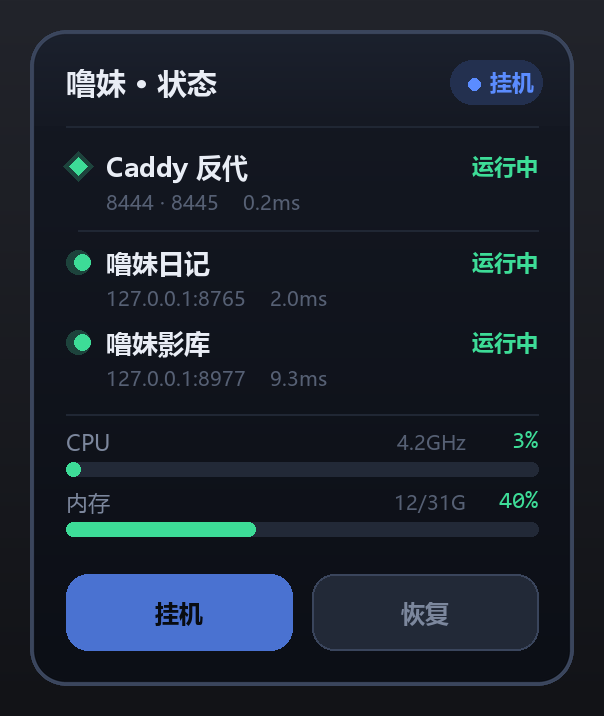
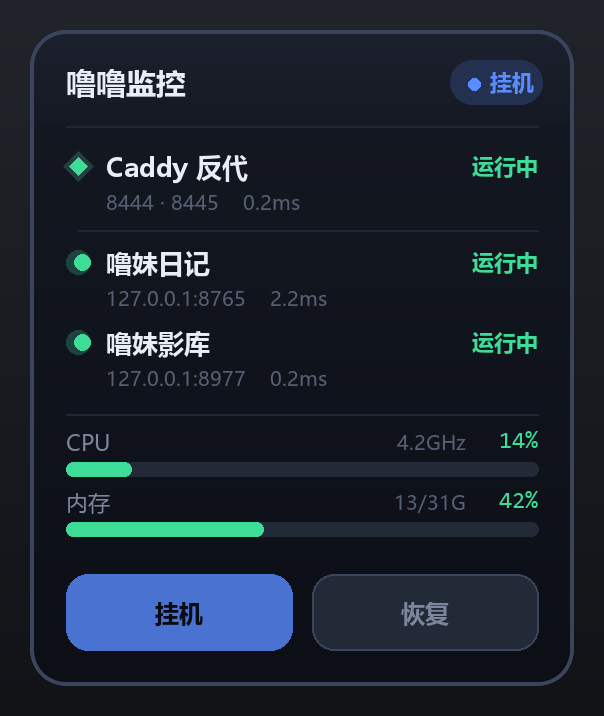
feat(widget): 标题改为「噜噜监控」
挂件标题、托盘提示文字、窗口标题（任务栏/Alt+Tab 显示用）统一走 TITLE 常量，
顺手给 tk 窗口设上 title —— overrideredirect 窗口默认标题是 'tk'。
README 标题同步。

diff --git a/lulu-watch/widget.py b/lulu-watch/widget.py
@@ -1,7 +1,7 @@
 # -*- coding: utf-8 -*-
 """
-噜妹状态挂件 —— 桌面小贴纸
-显示：电源模式 / 噜妹日记 / 噜妹影库 运行状态 / CPU / 内存
+噜噜监控 —— 桌面小贴纸
+显示：电源模式 / Caddy 入口 / 噜妹日记 / 噜妹影库 运行状态 / CPU / 内存
 可点按钮在「挂机」「恢复」之间切换
 
 用法：
@@ -59,6 +59,7 @@ SCALE = _system_scale()
 
 
 # ==================== 外观常量（逻辑坐标，渲染时乘 SCALE）====================
+TITLE = "噜噜监控"
 W, H = 272, 328
 RADIUS = 18
 SS = 3                       # 圆角超采样倍数
@@ -282,7 +283,7 @@ def build_image(data, hover=None, k=None):
     px = lambda v: P(v)          # noqa: E731
 
     # ---------- 标题 ----------
-    d.text((px(18), px(26)), "噜妹 · 状态", font=F["title"], fill=CLR["fg"],
+    d.text((px(18), px(26)), TITLE, font=F["title"], fill=CLR["fg"],
            anchor="lm")
 
     scheme = (data.get("scheme") or "").lower()
@@ -456,6 +457,7 @@ class Sampler(threading.Thread):
 class Widget:
     def __init__(self):
         self.root = tk.Tk()
+        self.root.title(TITLE)
         self.root.overrideredirect(True)
 
         # 默认不置顶：置顶会一直挡在其他窗口前面，碍事。
@@ -734,7 +736,7 @@ class Widget:
             self.tray = pystray.Icon("lulu-watch",
                                      tray_image(self.data.get("svc"),
                                                 self._caddy_up()),
-                                     "噜妹 · 状态", menu)
+                                     TITLE, menu)
             self.tray.run_detached()
         except Exception:
             self.tray = None

diff --git a/lulu-watch/README.md b/lulu-watch/README.md
@@ -1,4 +1,4 @@
-# 噜妹状态挂件（lulu-watch）
+# 噜噜监控（lulu-watch）
 
 Windows 桌面小贴纸。透明圆角卡片，常驻右下角，实时显示本机电源模式、Caddy 入口与两个本地服务的存活状态、CPU 与内存占用，并可一键切换「挂机 / 恢复」电源方案。
 
